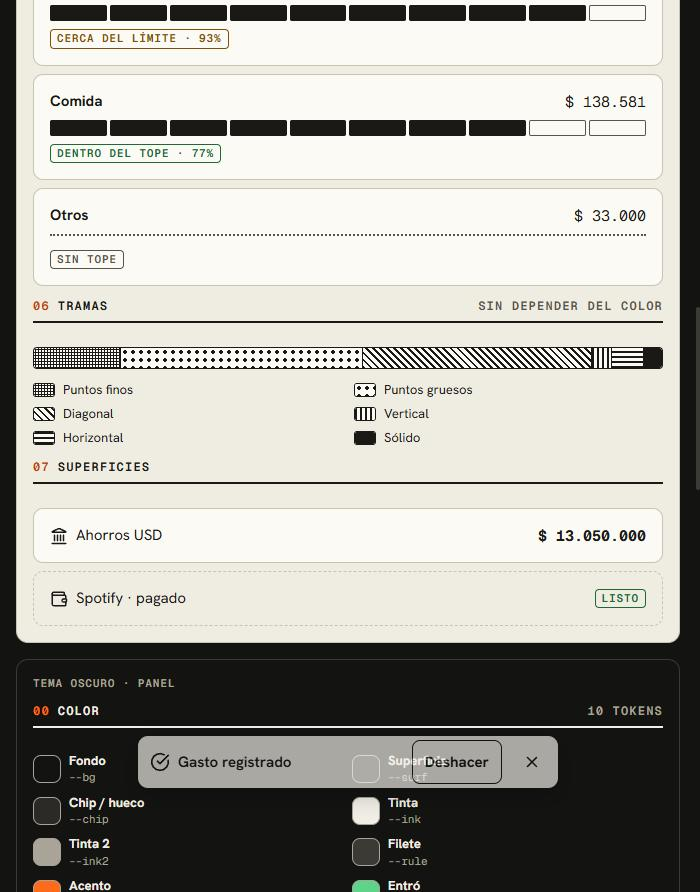
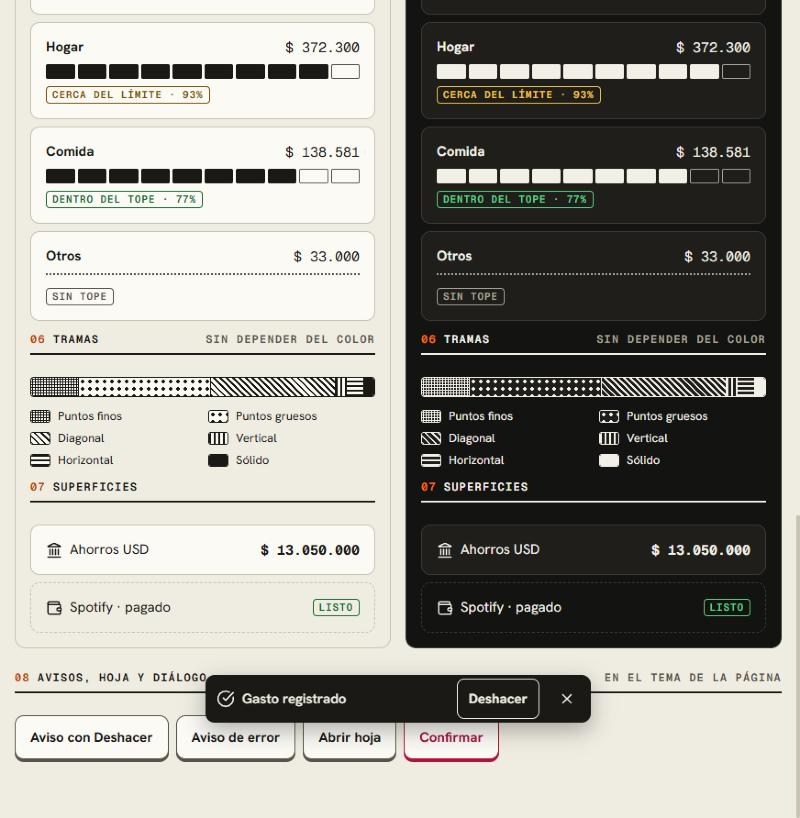
fix(ui): alias de tokens por tema y colores fijos de pantallas viejas
Los alias legados (--text-primary, etc.) se declaraban solo en :root y no
cambiaban con el tema claro: texto casi invisible en el saldo, cuentas y
movimientos. Ahora se declaran en cada selector de tema. Además, tooltips y
grilla de Reportes, íconos del botón central y del avatar, botones activos
del modal y botones primarios usan tokens (onacc/ink/bg) en vez de blanco fijo.
Se suman capturas de la app a 375 px en claro y oscuro.

diff --git a/src/components/Reports.jsx b/src/components/Reports.jsx
@@ -79,13 +79,13 @@ const Reports = ({ uid, expensesByCategory, budgets = {}, updateBudget }) => {
         <div style={{ width: '100%', height: 250 }}>
           <ResponsiveContainer width="100%" height="100%">
             <BarChart data={temporalData} margin={{ top: 5, right: 0, left: 10, bottom: 5 }}>
-              <CartesianGrid strokeDasharray="3 3" stroke="#ffffff10" vertical={false} />
+              <CartesianGrid strokeDasharray="3 3" stroke="var(--rule)" vertical={false} />
               <XAxis dataKey="name" stroke="var(--text-secondary)" fontSize={12} tickLine={false} axisLine={false} />
               <YAxis stroke="var(--text-secondary)" fontSize={12} tickLine={false} axisLine={false} tickFormatter={(value) => `$${value/1000}k`} />
               <Tooltip 
-                cursor={{ fill: 'rgba(255, 255, 255, 0.05)' }}
-                contentStyle={{ backgroundColor: 'var(--bg-surface)', border: 'none', borderRadius: '8px', color: '#fff' }}
-                itemStyle={{ color: '#fff' }}
+                cursor={{ fill: 'var(--chip)' }}
+                contentStyle={{ backgroundColor: 'var(--bg-surface)', border: '1px solid var(--rule)', borderRadius: '8px', color: 'var(--ink)' }}
+                itemStyle={{ color: 'var(--ink)' }}
                 formatter={(value) => formatCurrency(value)}
               />
               <Legend iconType="circle" wrapperStyle={{ fontSize: '12px' }} />
@@ -118,8 +118,8 @@ const Reports = ({ uid, expensesByCategory, budgets = {}, updateBudget }) => {
                 </Pie>
                 <Tooltip 
                   formatter={(value) => formatCurrency(value)}
-                  contentStyle={{ backgroundColor: 'var(--bg-surface)', border: 'none', borderRadius: '8px', color: '#fff' }}
-                  itemStyle={{ color: '#fff' }}
+                  contentStyle={{ backgroundColor: 'var(--bg-surface)', border: '1px solid var(--rule)', borderRadius: '8px', color: 'var(--ink)' }}
+                  itemStyle={{ color: 'var(--ink)' }}
                 />
               </PieChart>
             </ResponsiveContainer>

diff --git a/src/components/WelcomeScreen.jsx b/src/components/WelcomeScreen.jsx
@@ -125,7 +125,7 @@ const WelcomeScreen = ({ onBack }) => {
             <button 
               type="button"
               onClick={handleResendVerification}
-              style={{ background: 'var(--danger)', color: 'white', border: 'none', padding: '8px', borderRadius: '4px', cursor: 'pointer', fontWeight: 'bold' }}
+              style={{ background: 'var(--danger)', color: 'var(--bg)', border: 'none', padding: '8px', borderRadius: '4px', cursor: 'pointer', fontWeight: 'bold' }}
             >
               Reenviar correo de verificación
             </button>
@@ -180,7 +180,7 @@ const WelcomeScreen = ({ onBack }) => {
           
           <button type="submit" disabled={loading} style={{
             background: 'linear-gradient(135deg, var(--accent-primary), var(--accent-primary-hover))',
-            color: 'white', border: 'none', padding: '12px', borderRadius: '8px',
+            color: 'var(--onacc)', border: 'none', padding: '12px', borderRadius: '8px',
             fontSize: '1rem', fontWeight: '600', cursor: loading ? 'not-allowed' : 'pointer',
             opacity: loading ? 0.7 : 1, transition: 'transform 0.2s ease', marginTop: '8px'
           }}>

diff --git a/src/styles/tokens.css b/src/styles/tokens.css
@@ -103,11 +103,17 @@ body.light-theme,
   --z-sheet: 100;
   --z-toast: 200;
   --z-dialog: 300;
+}
 
-  /*
-   * Alias de la versión anterior. Las pantallas que todavía no se rehicieron siguen leyendo estos nombres;
-   * se van a borrar cuando se rehaga la última. No usarlos en código nuevo.
-   */
+/*
+ * Los alias se declaran en CADA selector de tema: una custom property con var() se resuelve donde se declara,
+ * así que si vivieran solo en :root quedarían fijos con los valores del tema oscuro.
+ */
+:root,
+[data-theme],
+body.light-theme {
+  /* Alias de la versión anterior. Las pantallas que todavía no se rehicieron siguen leyendo estos nombres;
+     se borran cuando se rehaga la última. No usarlos en código nuevo. */
   --bg-base: var(--bg);
   --bg-surface: var(--surf);
   --bg-glass: var(--chip);

diff --git a/src/components/Profile.jsx b/src/components/Profile.jsx
@@ -27,7 +27,7 @@ const Profile = ({ userName, uid, onClearData }) => {
       
       <Card className="profile-header" style={{ display: 'flex', alignItems: 'center', gap: 'var(--spacing-lg)', marginBottom: 'var(--spacing-xl)' }}>
         <div style={{ width: '64px', height: '64px', borderRadius: '50%', backgroundColor: 'var(--accent-primary)', display: 'flex', justifyContent: 'center', alignItems: 'center', flexShrink: 0 }}>
-          <User size={32} color="white" />
+          <User size={32} color="currentColor" style={{ color: 'var(--onacc)' }} />
         </div>
         <div style={{ overflow: 'hidden' }}>
           <h3 style={{ fontSize: '1.2rem', margin: '0 0 4px 0', whiteSpace: 'nowrap', overflow: 'hidden', textOverflow: 'ellipsis' }}>{userName}</h3>

diff --git a/src/components/AddTransactionModal.css b/src/components/AddTransactionModal.css
@@ -89,13 +89,13 @@
 
 .type-btn.active-expense {
   background-color: var(--danger);
-  color: white;
+  color: var(--bg);
   box-shadow: var(--shadow-sm);
 }
 
 .type-btn.active-income {
   background-color: var(--success);
-  color: white;
+  color: var(--bg);
   box-shadow: var(--shadow-sm);
 }
 
@@ -131,7 +131,7 @@
 
 .submit-btn {
   background: linear-gradient(135deg, var(--accent-primary), var(--accent-primary-hover));
-  color: white;
+  color: var(--onacc);
   border: none;
   padding: var(--spacing-md);
   border-radius: var(--radius-md);

diff --git a/src/components/Layout.jsx b/src/components/Layout.jsx
@@ -32,7 +32,7 @@ const Layout = ({ children, activeTab, onTabChange, onAddClick }) => {
             whileHover={{ scale: 1.05 }}
             whileTap={{ scale: 0.95 }}
           >
-            <PlusCircle size={32} color="#fff" />
+            <PlusCircle size={32} color="currentColor" style={{ color: 'var(--onacc)' }} />
           </motion.button>
         </div>
 

diff --git a/src/components/LandingPage.css b/src/components/LandingPage.css
@@ -90,7 +90,7 @@
 
 .btn-primary {
   background: var(--accent-gradient);
-  color: white;
+  color: var(--onacc);
   border: none;
   border-radius: var(--radius-lg);
   padding: 16px 24px;
